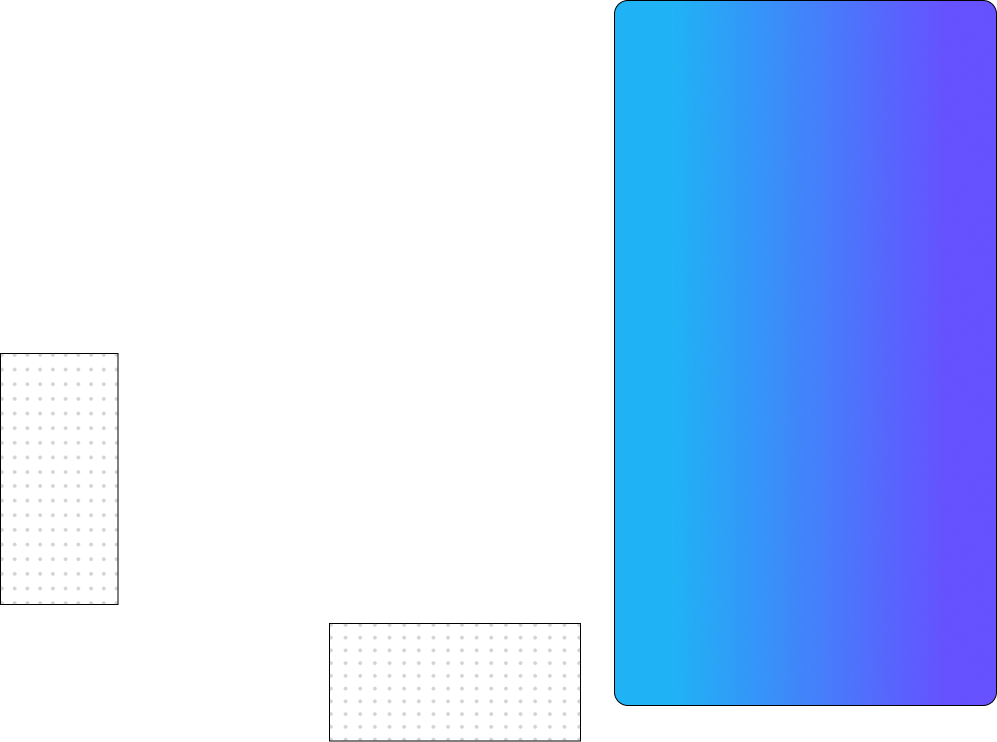
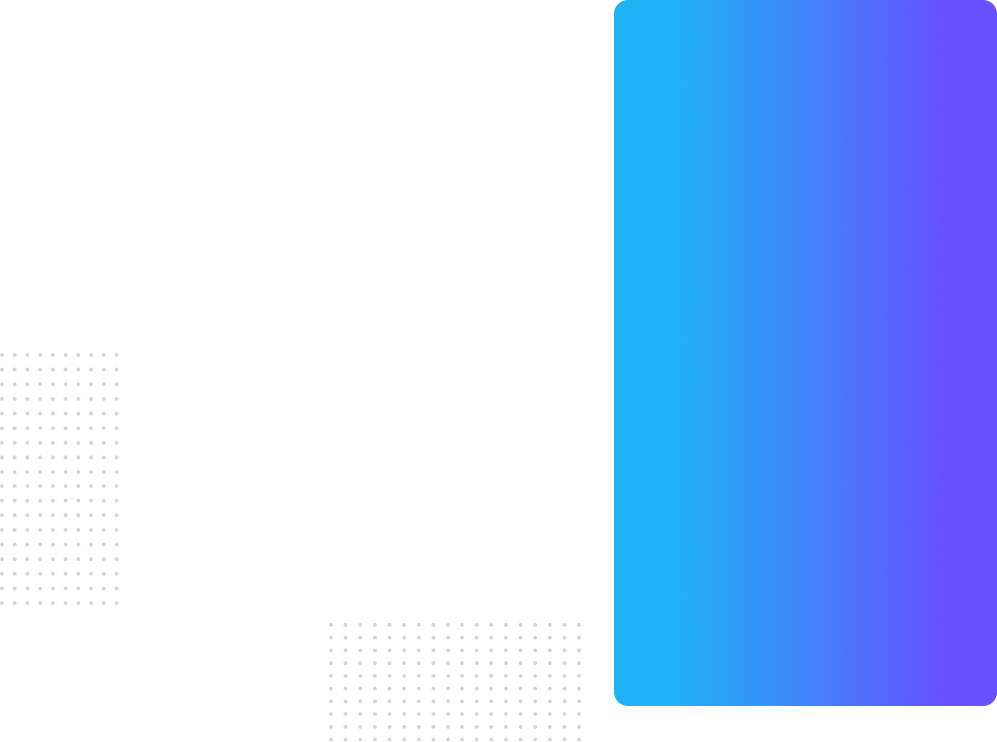
update

Changed region(s): [[0.995, 0.0, 1.0, 0.9609], [0.3109, 0.9919, 0.5908, 1.0]]

diff --git a/src/components/navbar/index.jsx b/src/components/navbar/index.jsx
@@ -3,6 +3,8 @@ import { ArrowRight, X } from "lucide-react";
 import hero1 from "../../assets/hero1.png";
 import line from "../../assets/line.png";
 import logo2 from "../../assets/logo2.svg";
+import top from "../../assets/top.png";
+import bottom from "../../assets/bottom.png";
 
 const Navbar = () => {
   const [showTop, setShowTop] = useState(true);
@@ -63,7 +65,7 @@ const Navbar = () => {
                     .getElementById("course")
                     ?.scrollIntoView({ behavior: "smooth" });
                 }}
-                className="flex-shrink-0"
+                className="flex-shrink-0 cursor-pointer"
                 aria-label="Get it now"
               >
                 <ArrowRight className="text-white w-5 h-5" />
@@ -82,7 +84,7 @@ const Navbar = () => {
         )}
       </div>
       {/* Hero Section */}
-      <div className="w-full px-4 sm:px-6 lg:px-8 pt-[150px] sm:pt-[150px] pb-8">
+      <div className="w-full px-4 sm:px-6 lg:px-8 pt-[150px] sm:pt-[150px] pb-[92px]">
         <div className="max-w-5xl mx-auto">
           {/* Line decoration */}
           <div className="relative">
@@ -94,13 +96,13 @@ const Navbar = () => {
           </div>
 
           {/* Title Card */}
-          <div className="relative bg-white border border-gray-200 rounded-xl py-4 sm:p-6 mb-8 sm:mb-12 z-10 w-[220px] xs:w-[260px] max-w-[713px] sm:w-full mx-auto">
+          <div className="relative bg-white border border-gray-200 rounded-xl py-4 sm:p-6 mb-8 sm:mb-[80px] z-10 w-[220px] xs:w-[260px] max-w-[713px] sm:w-full mx-auto">
             {/* Logo + Unlock Your */}
             <div className="flex items-center justify-center gap-2 sm:gap-4 whitespace-nowrap">
               <img
                 src={logo2}
                 alt="Logo"
-                className="w-8 h-8 sm:w-12 sm:h-12 flex-shrink-0"
+                className="w-8 h-8 sm:w-[70px] sm:h-[70px] flex-shrink-0"
               />
               <span className="text-xl xs:text-2xl sm:text-3xl md:text-5xl lg:text-6xl font-bold bg-gradient-to-r from-[#6651FF] to-[#1FB3F5] bg-clip-text text-transparent flex-shrink-0">
                 Unlock
@@ -142,6 +144,16 @@ const Navbar = () => {
                   Register Now
                 </span>
               </span>
+              <img
+                className="absolute top-0 right-[26px]"
+                src={top}
+                alt="Image"
+              />
+              <img
+                className="absolute bottom-0 left-[16px] "
+                src={bottom}
+                alt="Image"
+              />
             </button>
           </div>
 
@@ -164,13 +176,7 @@ const Navbar = () => {
                 <label
                   aria-label={`Box ${num}`}
                   htmlFor={`checkbox-${num}`}
-                  className={`
-    flex items-center justify-center
-    w-5 sm:w-6 md:w-9
-    h-5 sm:h-6 md:h-9
-    rounded-lg cursor-pointer
-    bg-gradient-to-r
-    transition-all duration-500
+                  className={`flex items-center justify-center w-5 sm:w-6 md:w-9 h-5 sm:h-6 md:h-9 rounded-lg cursor-pointer bg-gradient-to-r transition-all duration-500
     ${
       selected.includes(num)
         ? "from-[#1FB3F5] to-[#6651FF]"

diff --git a/src/components/explain/index.jsx b/src/components/explain/index.jsx
@@ -1,6 +1,8 @@
 import explain from "../../assets/explain.png";
 import check from "../../assets/check.svg";
 import { useEffect, useState } from "react";
+import top from "../../assets/top.png";
+import bottom from "../../assets/bottom.png";
 
 const Explain = () => {
   const boxes = Array.from({ length: 14 }, (_, i) => i + 1);
@@ -183,6 +185,16 @@ const Explain = () => {
                 Register Now
               </span>
             </span>
+            <img
+              className="absolute top-0 right-[26px]"
+              src={top}
+              alt="Image"
+            />
+            <img
+              className="absolute bottom-0 left-[16px] "
+              src={bottom}
+              alt="Image"
+            />
           </button>
         </div>
       </div>

diff --git a/src/components/faq/index.jsx b/src/components/faq/index.jsx
@@ -63,7 +63,7 @@ const Faq = () => {
                     {item.question}
                   </h3>
                   <span
-                    className={`flex-shrink-0 text-[20px] sm:text-[24px] md:text-[28px] lg:text-[30px] font-bold transition-transform duration-300 border border-[#4C4C4D] rounded-full w-[30px] sm:w-[34px] md:w-[36px] h-[30px] sm:h-[34px] md:h-[36px] flex items-center justify-center 
+                    className={`flex-shrink-0 text-[20px] sm:text-[24px] md:text-[28px] lg:text-[30px] font-bold transition-transform duration-300 border border-[#D9D9D9] rounded-full w-[30px] sm:w-[34px] md:w-[36px] h-[30px] sm:h-[34px] md:h-[36px] flex items-center justify-center 
       ${
         isActive
           ? "rotate-45 text-[#6651FF] border-[#6651FF]"

diff --git a/src/components/result/index.jsx b/src/components/result/index.jsx
@@ -20,7 +20,7 @@ const Result = () => {
         <img
           src={results}
           alt="Result Overlay"
-          className="absolute top-1/2 left-1/2 -translate-x-1/2 -translate-y-1/2 w-[80%] sm:w-[70%] md:w-[800px] h-auto object-contain z-10"
+          className="absolute rounded-[12px] top-1/2 left-1/2 -translate-x-1/2 -translate-y-1/2 w-[80%] sm:w-[70%] md:w-[800px] h-auto object-contain z-10"
         />
       </div>
     </div>
